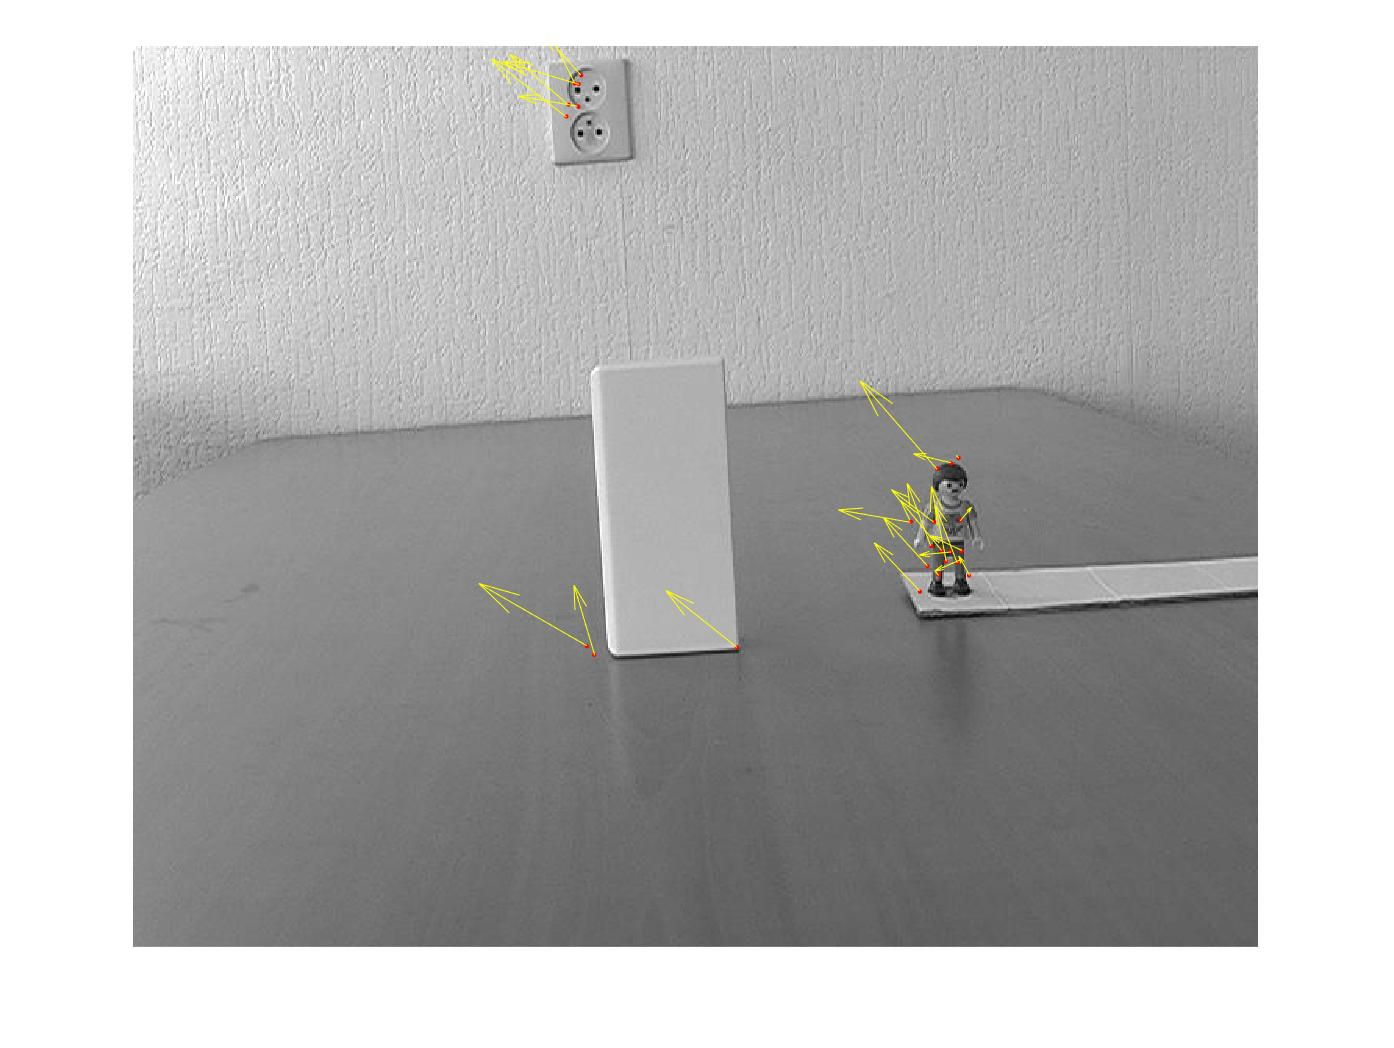
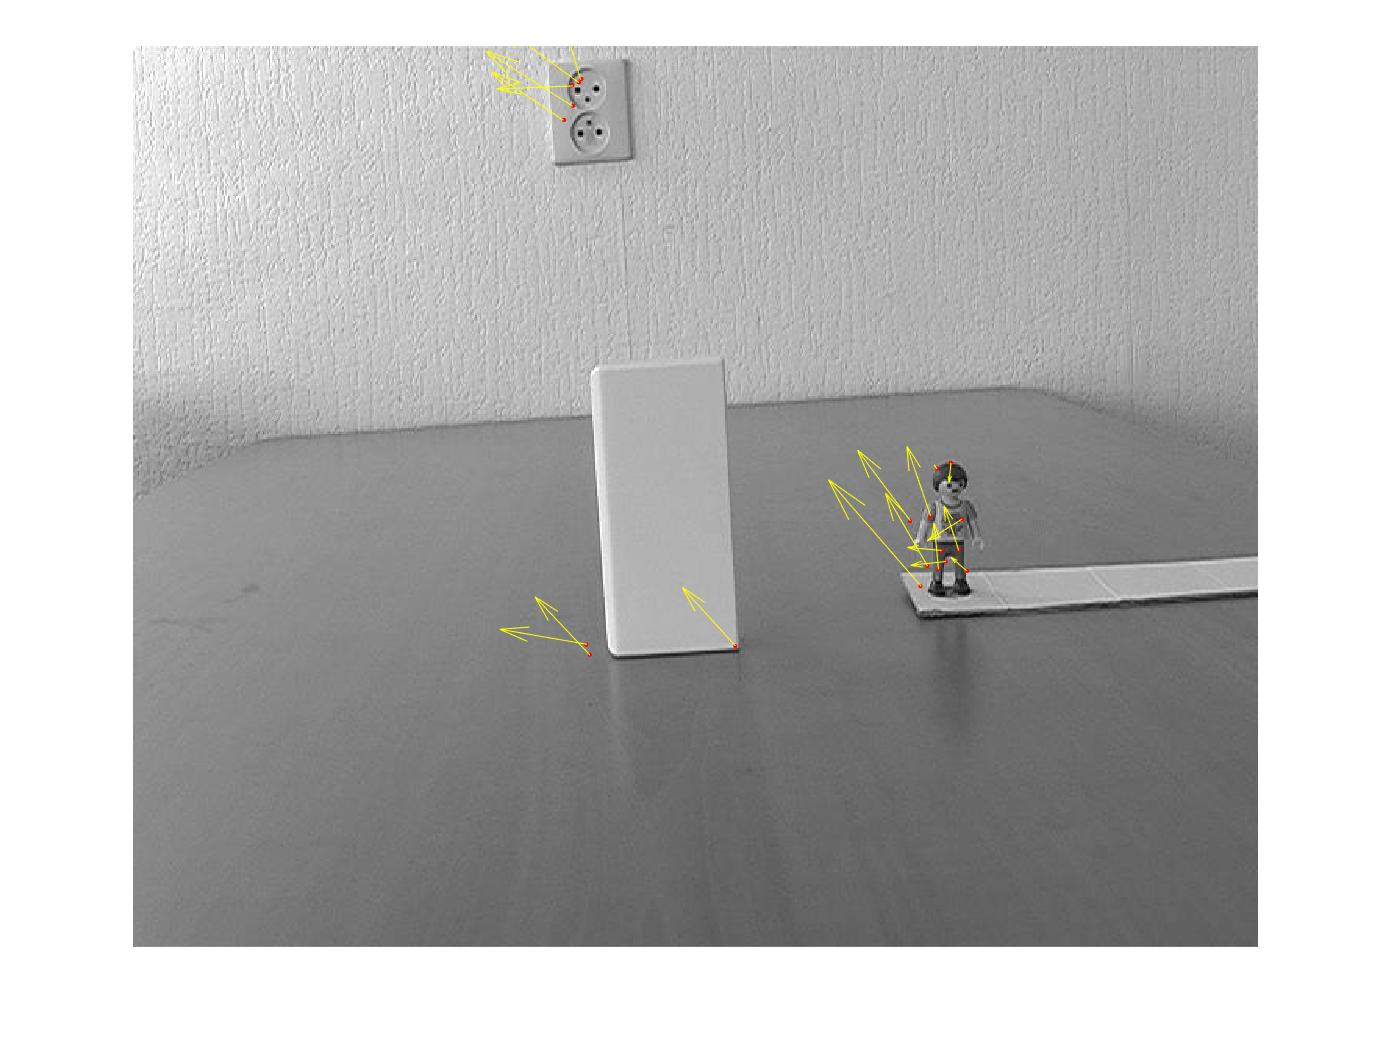
updated parameters

diff --git a/Assignment 3/harris_corner_detection.m b/Assignment 3/harris_corner_detection.m
@@ -14,7 +14,7 @@ function [H, r, c] = harris_corner_detection(image)
     [h, w] = size(image);
 
     % Set kernel size and sigma for Gaussian first order derivative.
-    k = 5;
+    k = 10;
     sigma = 1;
     constant = 97;
     
